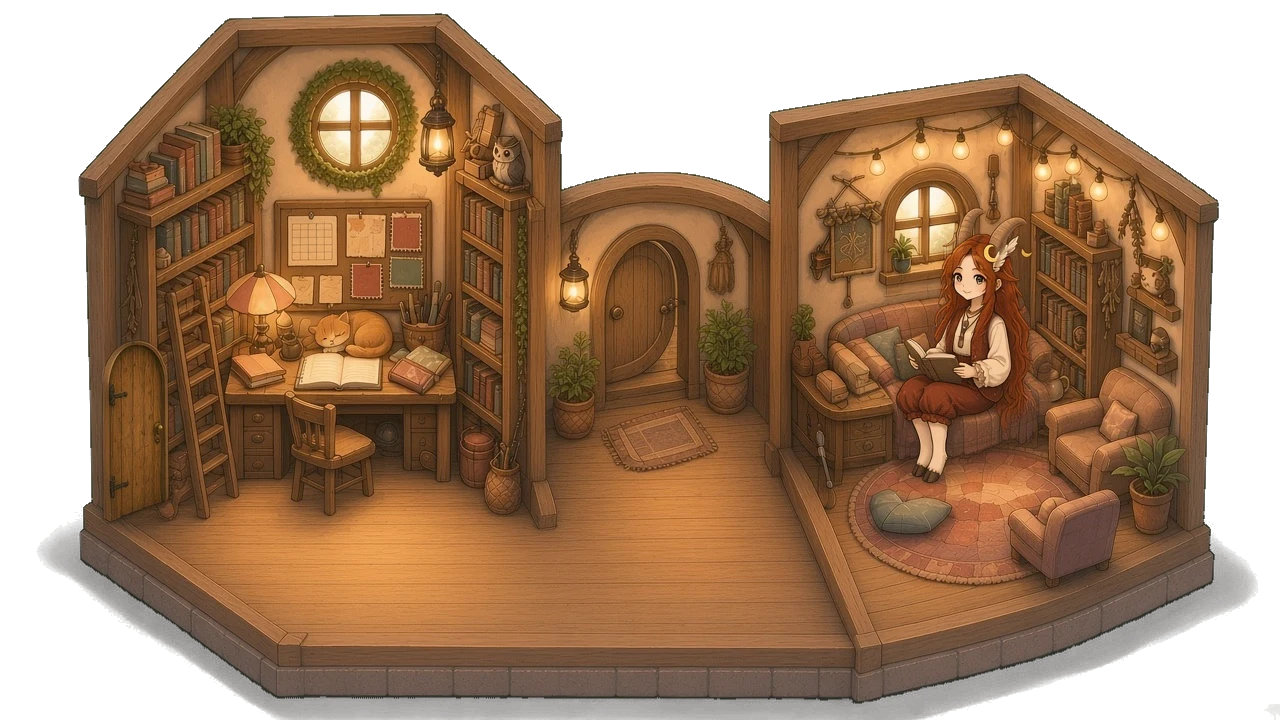
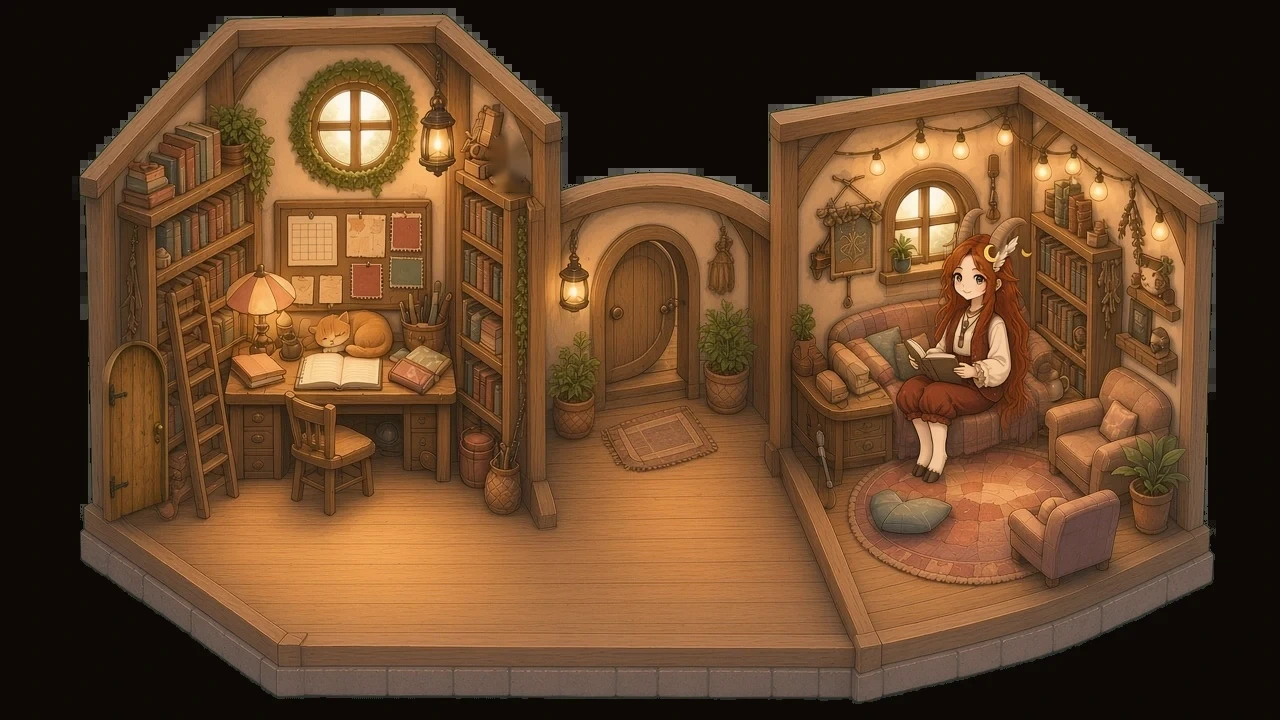
v41: Loria's owl, SW bot-town-v41

diff --git a/sw.js b/sw.js
@@ -1,7 +1,7 @@
-const CACHE = 'bot-town-v40';
+const CACHE = 'bot-town-v41';
 const ASSETS = ['./', 'index.html', 'style.css', 'config.js', 'music.js', 'app.js','starmap.js', 'manifest.json',
   'assets/map-v3.webp', 'assets/starfall-hill-v3-empty.webp','assets/park-v31/blanket-gorbo.webp','assets/park-v31/blanket-gorbo-night.webp','assets/park-v31/blanket-loria.webp','assets/park-v31/blanket-loria-night.webp','assets/park-v31/blanket-olithia.webp','assets/park-v31/blanket-olithia-night.webp','assets/park-v31/blanket-scout.webp','assets/park-v31/blanket-scout-night.webp','assets/park-v31/board-gorbo.webp','assets/park-v31/board-gorbo-night.webp','assets/park-v31/board-loria.webp','assets/park-v31/board-loria-night.webp','assets/park-v31/board-olithia.webp','assets/park-v31/board-olithia-night.webp','assets/park-v31/board-scout.webp','assets/park-v31/board-scout-night.webp','assets/park-v31/crest-gorbo.webp','assets/park-v31/scope-olithia.webp','assets/park-v31/scope-olithia-night.webp','assets/park-v31/crest-gorbo-night.webp','assets/park-v31/crest-loria.webp','assets/park-v31/crest-loria-night.webp','assets/park-v31/crest-olithia.webp','assets/park-v31/crest-olithia-night.webp','assets/park-v31/crest-scout.webp','assets/park-v31/crest-scout-night.webp','assets/park-v31/market-gorbo.webp','assets/park-v31/market-gorbo-night.webp','assets/park-v31/market-loria.webp','assets/park-v31/market-loria-night.webp','assets/park-v31/market-olithia.webp','assets/park-v31/market-olithia-night.webp','assets/park-v31/market-scout.webp','assets/park-v31/market-scout-night.webp','assets/park-v31/nook-gorbo.webp','assets/park-v31/nook-gorbo-night.webp','assets/park-v31/nook-loria.webp','assets/park-v31/nook-loria-night.webp','assets/park-v31/nook-olithia.webp','assets/park-v31/nook-olithia-night.webp','assets/park-v31/nook-scout.webp','assets/park-v31/nook-scout-night.webp','assets/park-v31/swap-gorbo.webp','assets/park-v31/swap-gorbo-night.webp','assets/park-v31/swap-loria.webp','assets/park-v31/swap-loria-night.webp','assets/park-v31/swap-olithia.webp','assets/park-v31/swap-olithia-night.webp','assets/park-v31/swap-scout.webp','assets/park-v31/swap-scout-night.webp','assets/park-v31/tea-gorbo.webp','assets/park-v31/tea-gorbo-night.webp','assets/park-v31/tea-loria.webp','assets/park-v31/tea-loria-night.webp','assets/park-v31/tea-olithia.webp','assets/park-v31/tea-olithia-night.webp','assets/park-v31/tea-scout.webp','assets/park-v31/tea-scout-night.webp', 'assets/starfall-hill-v3-night-empty.webp', 'assets/park-olithia-day.webp', 'assets/park-olithia-night.webp', 'assets/park-scope-gorbo.webp', 'assets/park-scope-loria.webp', 'assets/park-scope-scout.webp', 'assets/park-scope-olithia.webp', 'assets/park-gorbo-day.webp', 'assets/park-gorbo-night.webp', 'assets/park-loria-day.webp', 'assets/park-loria-night.webp', 'assets/park-scout-day.webp', 'assets/park-scout-night.webp',
-  'assets/sprite-gorbo.webp', 'assets/sprite-loria.webp', 'assets/sprite-scout.webp', 'assets/face-gorbo.webp', 'assets/face-loria.webp', 'assets/face-scout.webp', 'assets/sprite-olithia.webp', 'assets/face-olithia.webp', 'assets/playground-v3.webp','assets/pg40-seesaw-plank.webp','assets/pg40-seesaw-plankshadow.webp','assets/pg40-seesaw-standshadow.webp','assets/pg40-seesaw-stand.webp','assets/pg3-swing-leg.webp','assets/pg-seesaw-plank.webp','assets/pg-seesaw-post.webp','assets/pg37-swA-gorbo.webp','assets/pg37-swA-loria.webp','assets/pg37-swA-scout.webp','assets/pg37-swA-olithia.webp','assets/pg37-swB-gorbo.webp','assets/pg37-swB-loria.webp','assets/pg37-swB-scout.webp','assets/pg37-swB-olithia.webp','assets/pg37-slide-gorbo.webp','assets/pg37-slide-loria.webp','assets/pg37-slide-scout.webp','assets/pg37-slide-olithia.webp','assets/pg37-sand-gorbo.webp','assets/pg37-sand-loria.webp','assets/pg37-sand-scout.webp','assets/pg37-sand-olithia.webp', 'assets/playground-swing.webp', 'assets/scout-house-v4-working-v2.webp',
+  'assets/sprite-gorbo.webp', 'assets/sprite-loria.webp', 'assets/sprite-scout.webp', 'assets/face-gorbo.webp', 'assets/face-loria.webp', 'assets/face-scout.webp', 'assets/sprite-olithia.webp', 'assets/face-olithia.webp', 'assets/playground-v3.webp','assets/pg40-seesaw-plank.webp','assets/owl-awake.webp','assets/owl-doze.webp','assets/pg40-seesaw-plankshadow.webp','assets/pg40-seesaw-standshadow.webp','assets/pg40-seesaw-stand.webp','assets/pg3-swing-leg.webp','assets/pg-seesaw-plank.webp','assets/pg-seesaw-post.webp','assets/pg37-swA-gorbo.webp','assets/pg37-swA-loria.webp','assets/pg37-swA-scout.webp','assets/pg37-swA-olithia.webp','assets/pg37-swB-gorbo.webp','assets/pg37-swB-loria.webp','assets/pg37-swB-scout.webp','assets/pg37-swB-olithia.webp','assets/pg37-slide-gorbo.webp','assets/pg37-slide-loria.webp','assets/pg37-slide-scout.webp','assets/pg37-slide-olithia.webp','assets/pg37-sand-gorbo.webp','assets/pg37-sand-loria.webp','assets/pg37-sand-scout.webp','assets/pg37-sand-olithia.webp', 'assets/playground-swing.webp', 'assets/scout-house-v4-working-v2.webp',
   'assets/olithia-house-v4.webp', 'assets/olithia-house-v4-exterior.webp',
   'assets/olithia-house-v4-idle.webp', 'assets/olithia-house-v4-working.webp', 'assets/olithia-house-v4-sitting.webp',
   'assets/gorbo-house-v4.webp',

diff --git a/app.js b/app.js
@@ -206,7 +206,7 @@
     $('#tasks').classList.add('collapsed');
     $('#back').setAttribute('aria-label', cur.returnTo ? ('Back to ' + C[cur.returnTo].house) : 'Back to map');
     $('#map').classList.remove('active'); $('#house').classList.add('active');
-    layout(); buildActors(); buildGuests(); resetCam(false); buildLinks(); buildPlay();
+    layout(); buildActors(); buildGuests(); resetCam(false); buildLinks(); buildPlay(); buildOwl();
     $('#tasks').hidden = gallery || !(cur.tasks || isBot(id));
     if (cur.tasks || isBot(id)) renderTasks();
     updateMode(true);
@@ -424,6 +424,35 @@
   }
   function go(to) { travel(to, { replace: true }); }
 
+
+  // ---------- v41: Loria's owl (one instance: with Loria when she's out at night, else at home) ----------
+  let owlT = 0;
+  function owlPlace() {
+    const O = CFG.owl; if (!O) return null; const L = locate('loria'), night = inHours(O.night);
+    if (night && (L.scene === 'starfall' || L.scene === 'playground')) return { scene: L.scene, awake: true };
+    if (L.scene === 'loria-bed') return { scene: 'loria-bed', awake: night };
+    return { scene: 'loria', awake: night };
+  }
+  function buildOwl() {
+    clearTimeout(owlT); $('#actors').querySelectorAll('.owl').forEach(e => e.remove());
+    const O = CFG.owl, w = owlPlace(); if (!w || w.scene !== curId) return; const P = O.perches[curId]; if (!P) return;
+    const el = document.createElement('div'); el.className = 'owl' + (w.awake ? ' awake' : ' dozing'); el.setAttribute('role', 'button'); el.setAttribute('aria-label', O.name + (w.awake ? '' : ' (dozing)'));
+    const hP = P.h / P.art[1] * 100, wP = P.h * O.ratio / P.art[0] * 100;
+    Object.assign(el.style, { left: (P.x - wP / 2) + '%', top: (P.y - hP) + '%', width: wP + '%', height: hP + '%', zIndex: 1900 });
+    const dark = curId === 'starfall' || curId === 'loria-bed' ? isNight() : false, tint = dark && P.tintNight ? P.tintNight : P.tint;
+    el.innerHTML = `<i class="owl-sh"></i><img src="${w.awake ? O.awake : O.doze}" alt="" draggable="false"${tint ? ` style="filter:${tint}"` : ''}>`;
+    const img = el.querySelector('img');
+    if (w.awake && motionOK) { const life = () => { owlT = setTimeout(() => { if (!el.isConnected) return;
+        if (Math.random() < .7) { img.src = O.doze; setTimeout(() => { img.src = O.awake; }, 150); }
+        else img.animate([{ rotate: '0deg' }, { rotate: (Math.random() < .5 ? -1 : 1) * 7 + 'deg', offset: .3 }, { rotate: (Math.random() < .5 ? -1 : 1) * 7 + 'deg', offset: .7 }, { rotate: '0deg' }], { duration: 2400, easing: 'ease-in-out' });
+        life(); }, 3500 + Math.random() * 4000); }; life(); }
+    el.onclick = ev => { ev.stopPropagation(); buzz(8);
+      try { pgNote(392, .45, 'sine', .09); setTimeout(() => pgNote(349, .7, 'sine', .08), 420); } catch (e) {}
+      img.animate([{ scale: '1' }, { scale: '1.08', offset: .3 }, { scale: '1' }], { duration: 500 });
+      if (!w.awake) { img.src = O.awake; setTimeout(() => { img.src = O.doze; }, 1600); }
+      const h = document.createElement('span'); h.className = 'owl-heart'; h.textContent = '♥'; el.appendChild(h); setTimeout(() => h.remove(), 1400); };
+    $('#actors').appendChild(el);
+  }
   // ---------- bubbles ----------
   let bubbleT;
   function showBubble(el, name, text) {
@@ -743,7 +772,7 @@
     $('#actors').querySelectorAll('.link:not(.pboard):not(.pg-slide):not(.pg-chest):not(.pg-chimes)').forEach(e => e.remove()); buildLinks();
     const wantMain = !cur.bot || locate(cur.bot).scene === curId, wantVis = !!(cur.room.visitor && visiting);
     if (cur.sprite && !cur.room.poses && !cur.gallery && (!!actors.main !== wantMain || !!actors.visitor !== wantVis)) buildActors();
-    buildGuests(); updateMode(true); if (cur.play) playTools();
+    buildGuests(); buildOwl(); updateMode(true); if (cur.play) playTools();
     if (!$('#tasks').hidden && (cur.tasks || isBot(curId))) renderTasks();
   }
 

diff --git a/config.js b/config.js
@@ -13,6 +13,15 @@ window.BOT_TOWN = {
   // work: share of the day spent working; outings: places it may wander to (houses = visiting that bot or Olithia).
   // Before bed and after waking it spends a little while awake in its own bedroom.
   bots: ["gorbo", "loria", "scout"],
+  // v41: Loria's owl. One owl, always where Loria is (or home): awake at night (blinks, turns her head), dozing by day.
+  // perch: x/y = where the feet grip (% of the scene), h = owl height in art px, art = scene art size, tint = CSS filter to sit in that light
+  owl: { name: "Loria's owl", awake: "assets/owl-awake.webp", doze: "assets/owl-doze.webp", night: [19, 7], ratio: 133 / 176,
+    perches: {
+      loria: { x: 39.69, y: 26.2, h: 46, art: [1280, 720], tint: "sepia(.18) saturate(.95)" },
+      "loria-bed": { x: 27.8, y: 50, h: 40, art: [1280, 720], tint: "sepia(.15)", tintNight: "brightness(.62) sepia(.25) saturate(.85)" },
+      starfall: { x: 48.9, y: 77.35, h: 32, art: [720, 2260], tint: "", tintNight: "brightness(.45) saturate(.7) hue-rotate(-8deg)" },
+      playground: { x: 71.4, y: 29.95, h: 26, art: [720, 1905], tint: "" }
+    } },
   routines: {
     gorbo: { sleep: [23, 7], work: .5, outings: ["starfall", "playground", "olithia"] },
     loria: { sleep: [25, 9], work: .42, outings: ["starfall", "playground", "olithia"] }, // night owl: she stays up with her owl till about 01:00

diff --git a/style.css b/style.css
@@ -368,3 +368,13 @@ button{font-family:inherit;color:inherit;cursor:pointer;touch-action:manipulatio
 #actors .swing-rider,#actors .pg-toy.boxed{filter:none}
 
 #actors .pg-ss-contact{position:absolute;width:5%;height:.9%;margin:-.45% 0 0 -2.5%;border-radius:50%;background:radial-gradient(closest-side,rgba(30,40,10,.55),rgba(30,40,10,0));pointer-events:none}
+
+/* v41: Loria's owl */
+#actors .owl{position:absolute;pointer-events:auto;cursor:pointer;transform-origin:50% 100%}
+#actors .owl img{position:absolute;inset:0;width:100%;height:100%;object-fit:contain;transform-origin:50% 85%;-webkit-user-drag:none}
+#actors .owl .owl-sh{position:absolute;left:8%;right:2%;bottom:-6%;height:16%;border-radius:50%;background:radial-gradient(closest-side,rgba(40,24,10,.45),rgba(40,24,10,0))}
+#actors .owl.dozing img{animation:owlBreathe 4.2s ease-in-out infinite}
+@keyframes owlBreathe{50%{transform:scale(1.03,1.045)}}
+#actors .owl .owl-heart{position:absolute;left:50%;top:-10%;font-size:11px;color:#ff8fb1;text-shadow:0 0 3px #fff8;pointer-events:none;animation:owlHeart 1.4s ease-out forwards}
+@keyframes owlHeart{from{transform:translate(-50%,0) scale(.6);opacity:0}20%{opacity:1}to{transform:translate(-50%,-160%) scale(1.1);opacity:0}}
+@media (prefers-reduced-motion: reduce){#actors .owl.dozing img{animation:none}}
